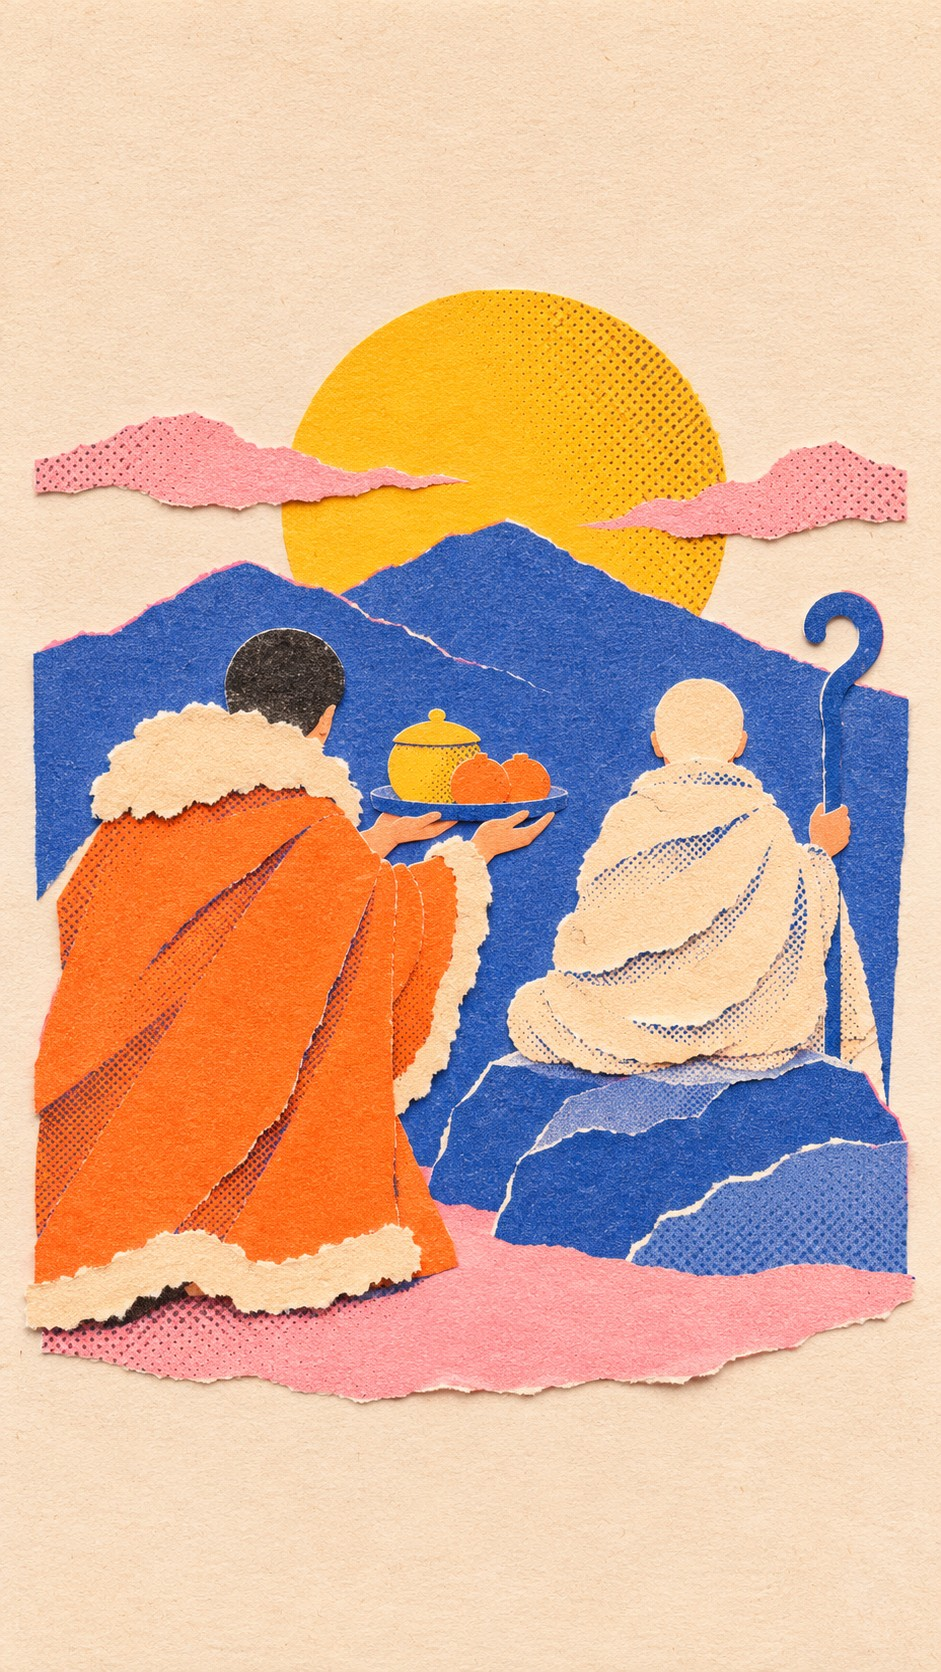
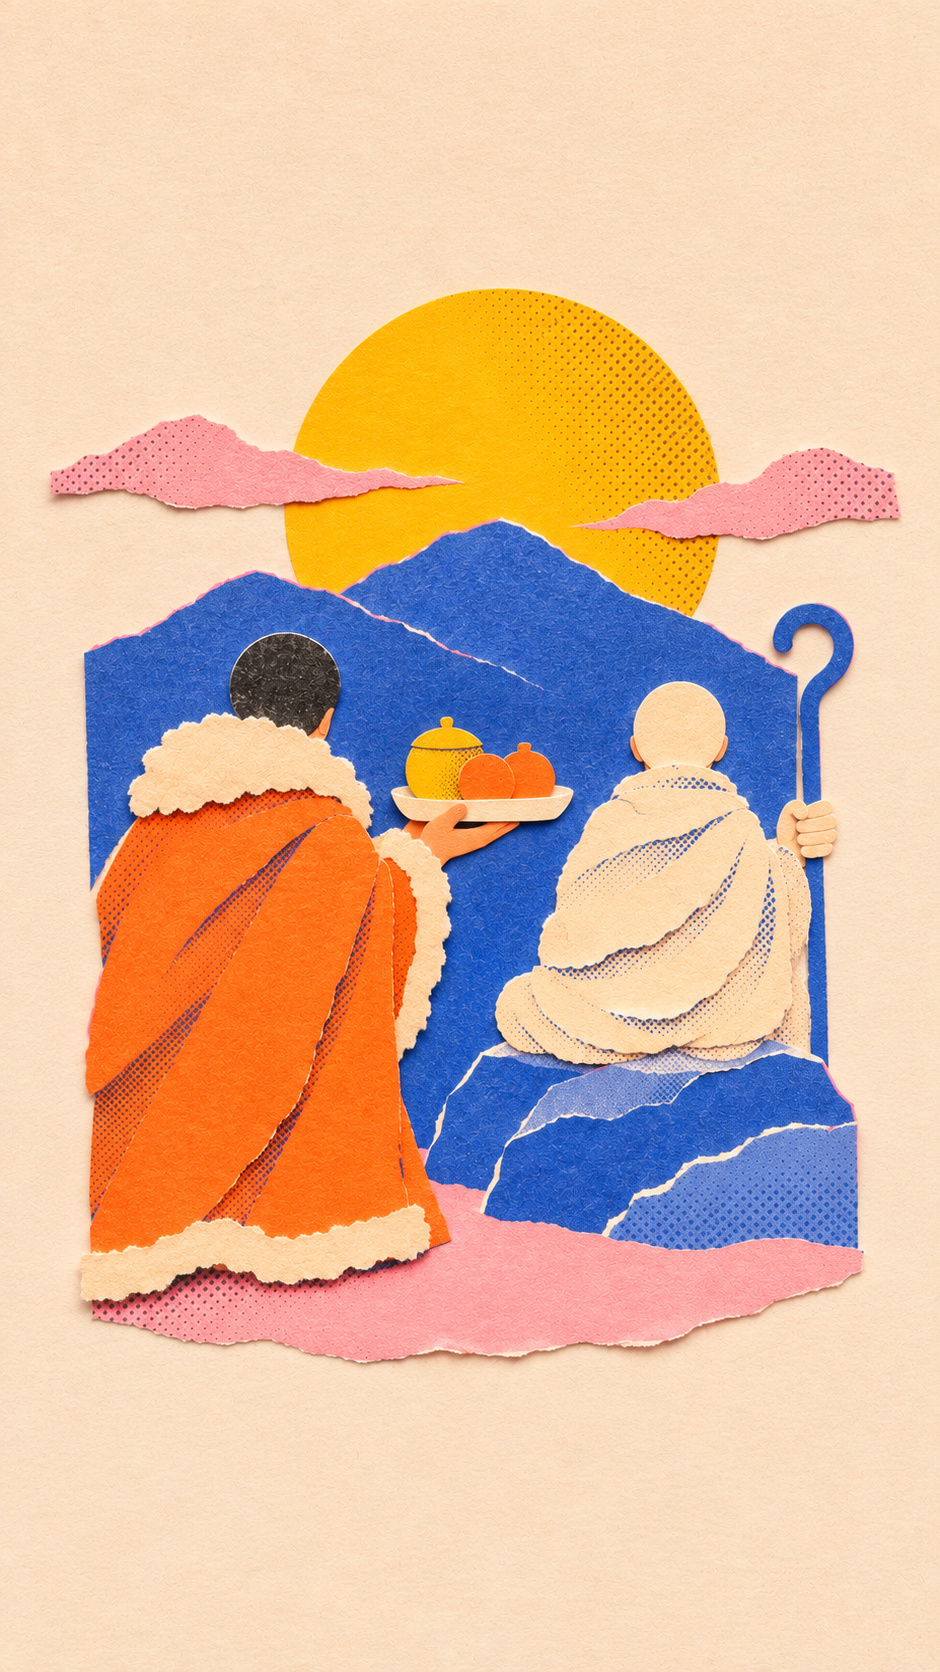
art: stage 4 — batch 11 assets and visual QA

Changed region(s): [[0.0309, 0.1555, 0.9872, 0.8397]]

diff --git a/toldot-video/art/STATUS.md b/toldot-video/art/STATUS.md
@@ -30,3 +30,5 @@ Batch 08: 21 generations this session. Individually reviewed: P05 approved, P10 
 Batch 09: 24 generations this session. Individually reviewed: P01 approved, P03 approved, P06 draft. Contact sheet saved. Production continues; no approval wait; DONE absent.
 
 Batch 10: 27 generations this session. Individually reviewed: P20 approved, P23 approved, P06 approved, P26 draft. Contact sheet saved. Production continues; no approval wait; DONE absent.
+
+Batch 11: 30 generations this session. Individually reviewed: P02 weak, P07 draft, P09 approved, P26 weak. Contact sheet saved. Production continues; no approval wait; DONE absent.
